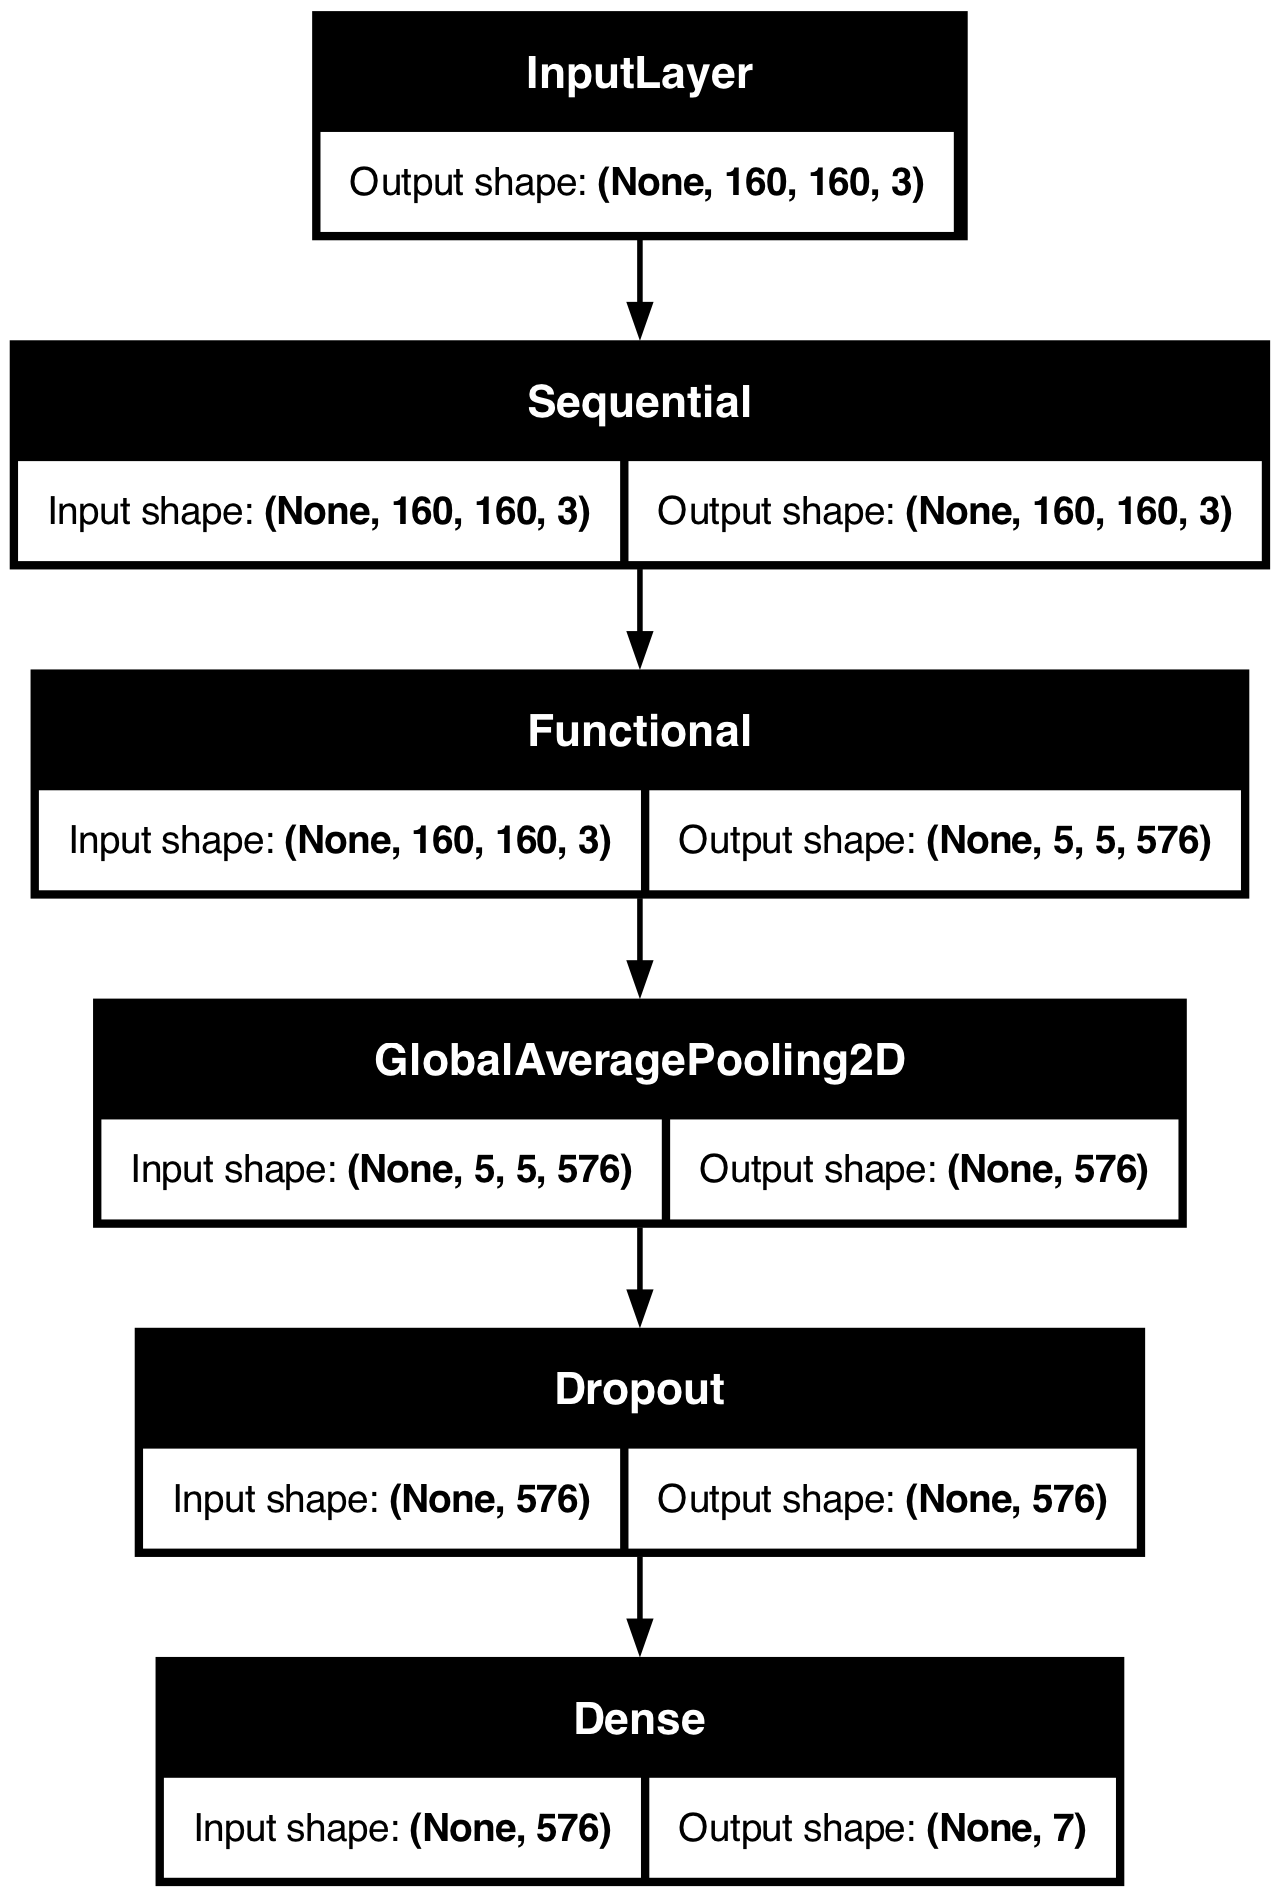
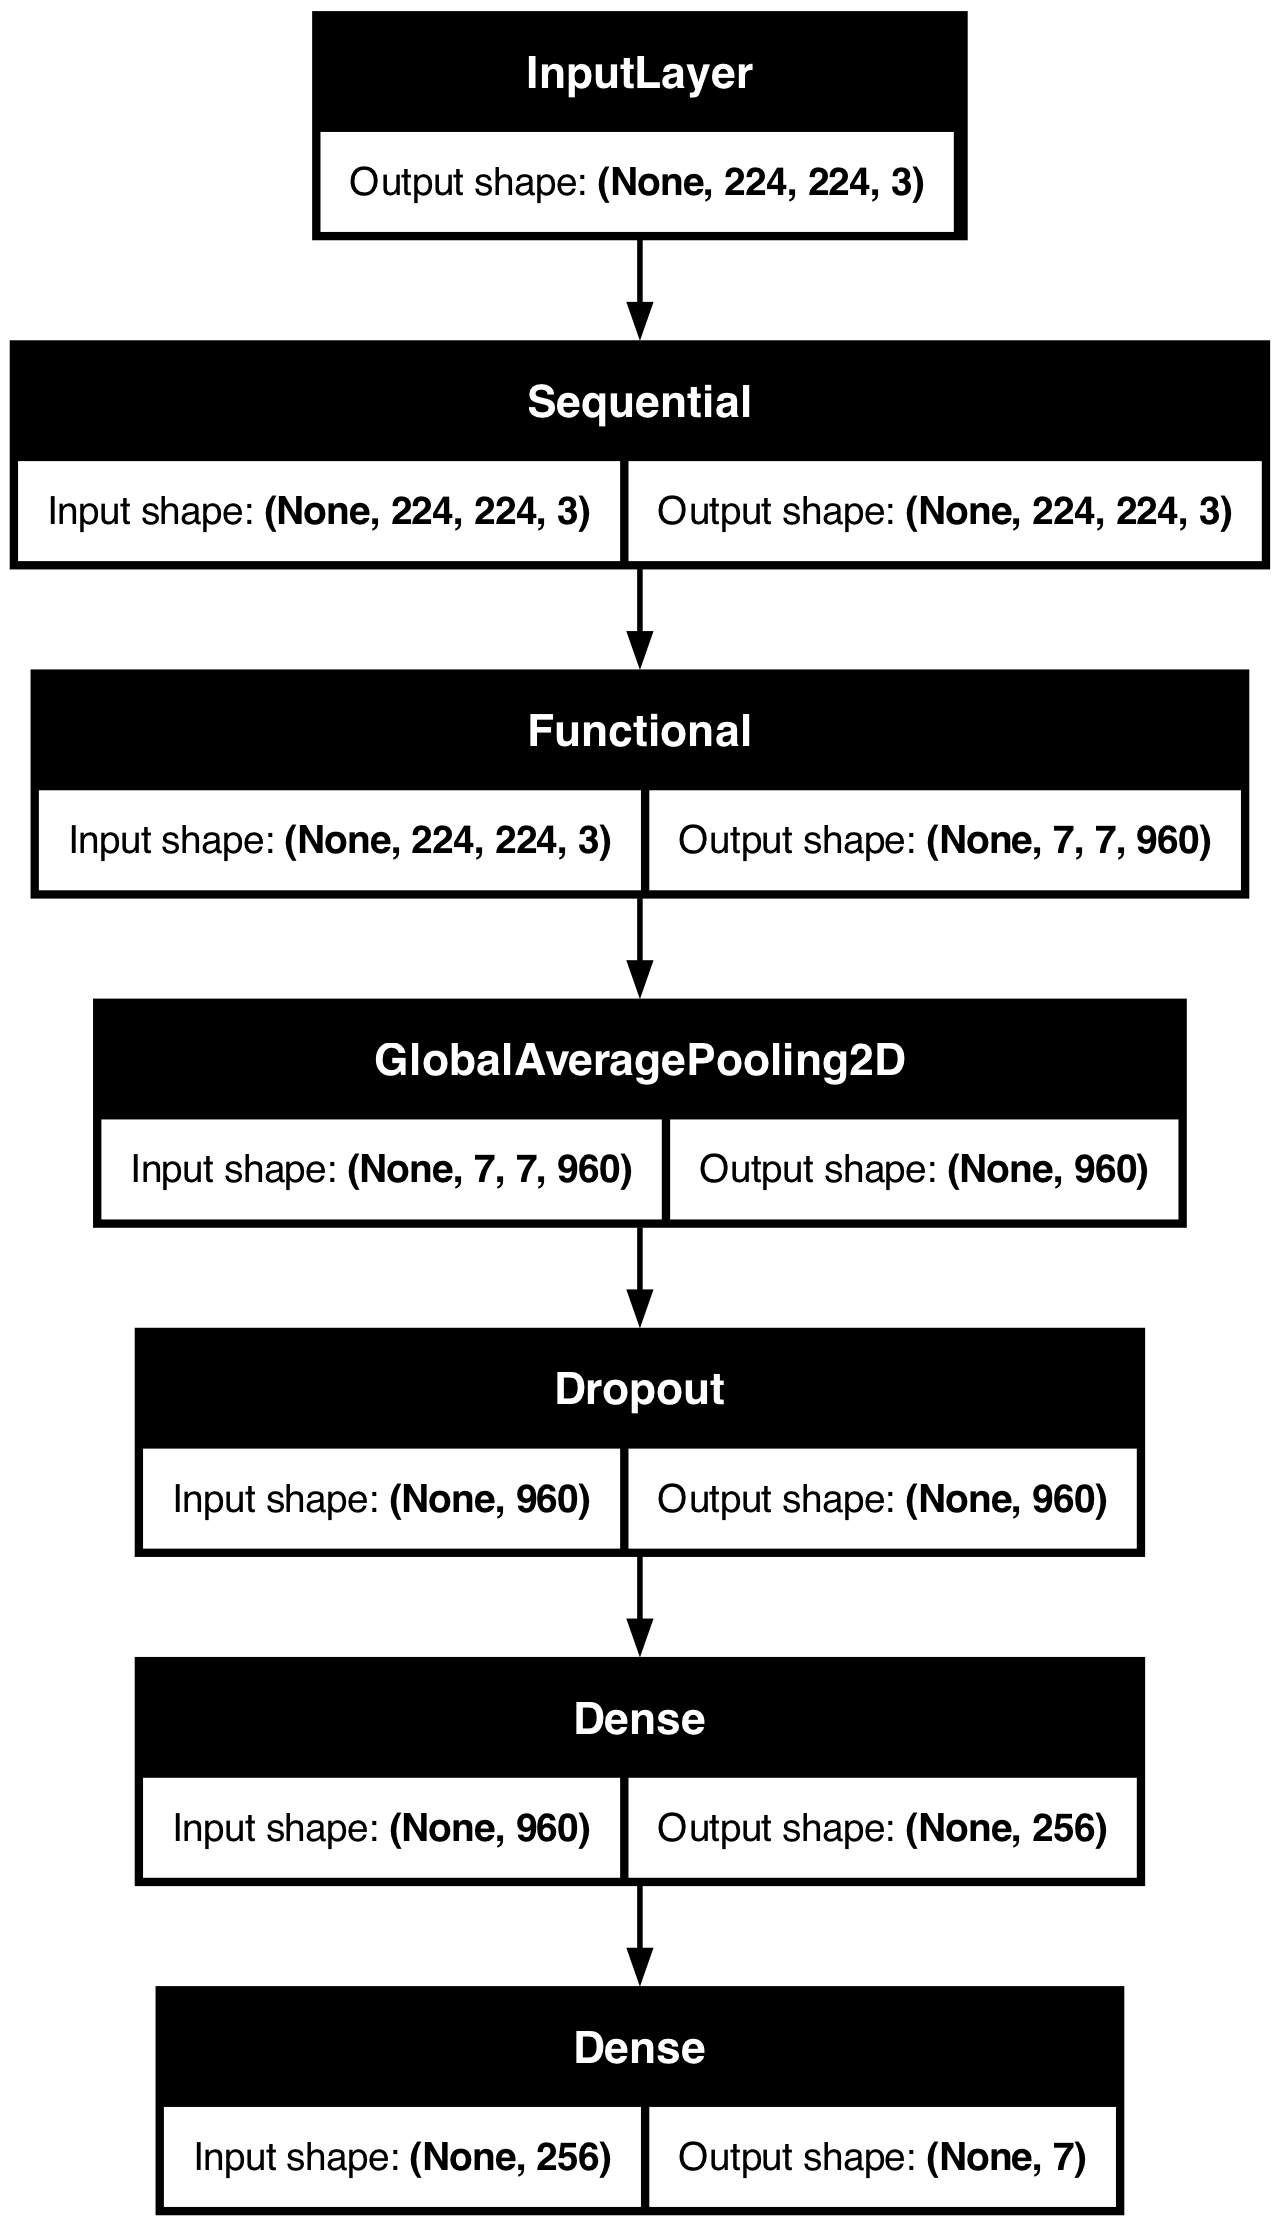
updated backend -> MobileNetV3Large, class imbalance handling, augmentation additions, stronger head + weight decay (extra dense layer, (none, 256)), unfreezed at around 70%

diff --git a/backend/tfmodel.py b/backend/tfmodel.py
@@ -2,7 +2,7 @@
 
 import os
 import tensorflow as tf 
-import numpy as np 
+import numpy, pathlib, collections as np 
 import matplotlib.pyplot as plt 
 import kagglehub
 from tensorflow.keras.applications.mobilenet_v3 import preprocess_input
@@ -27,7 +27,7 @@ data_dir = PATH
 #validation_dir = os.path.join(PATH, 'validation')
 
 BATCH_SIZE = 32
-IMG_SIZE = (160, 160) # px, px
+IMG_SIZE = (224, 224) # px, px
 
 train_dataset = tf.keras.utils.image_dataset_from_directory(
     data_dir,
@@ -71,8 +71,8 @@ print("Num val batches: %d" % tf.data.experimental.cardinality(validation_datase
 
 # autotune dataset, image loading performance benefit
 AUTOTUNE = tf.data.AUTOTUNE
-train_dataset = train_dataset.prefetch(buffer_size=AUTOTUNE)
-validation_dataset = validation_dataset.prefetch(buffer_size=AUTOTUNE)
+train_dataset = train_dataset.shuffle(1000).cache().prefetch(tf.data.AUTOTUNE)
+validation_dataset = validation_dataset.cache().prefetch(tf.data.AUTOTUNE)
 #test_dataset = test_dataset.prefetch(buffer_size=AUTOTUNE)
 
 
@@ -81,6 +81,10 @@ validation_dataset = validation_dataset.prefetch(buffer_size=AUTOTUNE)
 data_augmentation = tf.keras.Sequential([
     tf.keras.layers.RandomFlip('horizontal'),  
     tf.keras.layers.RandomRotation(0.2),
+    tf.keras.layers.RandomZoom(0.2),
+    tf.keras.layers.RandomTranslation(0.1, 0.1),
+    tf.keras.layers.RandomContrast(0.1), 
+    tf.keras.layers.RandomBrightness(0.1),
 ])
 
 # model rescaling (kinda like normalization in ML - [-1, 1] inputs)
@@ -90,14 +94,22 @@ rescale = tf.keras.layers.Rescaling(1./127.5, offset=-1)
 # for now, pretrained convnets
 # later, fine-tuned convnets - diff layers - real dataset
 IMG_SHAPE = IMG_SIZE + (3,)
-base_model = tf.keras.applications.MobileNetV3Small(input_shape=IMG_SHAPE, include_top=False, weights='imagenet')
+base_model = tf.keras.applications.MobileNetV3Large(input_shape=IMG_SHAPE, include_top=False, weights='imagenet')
+base_model.trainable = False
 
 image_batch, label_batch = next(iter(validation_dataset))
 feature_batch = base_model(image_batch)
 print(feature_batch.shape) # feature shape MobileNetV3 -> (32, 5, 5, 576)
 
-base_model.trainable = False
 base_model.summary()
+
+print ("num layers in base: ", len(base_model.layers))
+
+'''
+fine_tune_layer = 100
+for layer in base_model.layers[:fine_tune_layer]:
+    layer.trainable = False
+'''
 
 global_average_layer = tf.keras.layers.GlobalAveragePooling2D() # 2d average pooling input signal conv neural net
 feature_batch_avg = global_average_layer(feature_batch)
@@ -107,20 +119,22 @@ prediction_layer = tf.keras.layers.Dense(1, activation="sigmoid")
 prediction_batch = prediction_layer(feature_batch_avg)
 print(prediction_batch.shape)
 
+wd = 1e-5
+
 inputs = tf.keras.Input(shape=IMG_SHAPE)
 x = data_augmentation(inputs)
 x = preprocess_input(x)
-x = base_model(x, training=False)
+x = base_model(x)
 x = global_average_layer(x)
 x = tf.keras.layers.Dropout(0.2)(x)
-outputs = tf.keras.layers.Dense(num_classes, activation="softmax")(x)
+x = tf.keras.layers.Dense(256, activation="relu", kernel_regularizer=tf.keras.regularizers.L2(wd))(x)
+outputs = tf.keras.layers.Dense(num_classes, activation="softmax", kernel_regularizer=tf.keras.regularizers.L2(wd))(x)
 model = tf.keras.Model(inputs, outputs)
 
 model.summary()
 
 # print diagram
 tf.keras.utils.plot_model(model, show_shapes=True)
-
 
 # compile, train over epochs
 base_learning_rate = 0.0001 
@@ -134,10 +148,44 @@ loss0, accuracy0 = model.evaluate(validation_dataset)
 print("initial loss: {:.2f}".format(loss0))
 print("initial accuracy: {:.2f}".format(accuracy0))
 
+fine_tune_epochs = 20 + epochs
+
+root = pathlib.Path(data_dir)
+counts = {p.name: len(list(p.glob("*"))) for p in root.iterdir() if p.is_dir()}
+print(counts)
+
+idx = {name:i for i, name in enumerate(class_names)}
+total = sum(counts.values())
+class_weight = {idx[k]: total/(len(counts)*v) for k, v, in counts.items()}
+print(class_weight)
+
 # model training history
 history = model.fit(train_dataset,
                     epochs=epochs,
-                    validation_data=validation_dataset)
+                    validation_data=validation_dataset, class_weight=class_weight)
+
+# fine tune set
+fine_tune_at = int(0.7 * len(base_model.layers))
+base_model.trainable = True
+for layer in base_model.layers[:fine_tune_at]:
+    layer.trainable = False
+
+model.compile(
+    optimizer=tf.keras.optimizers.Adam(learning_rate = base_learning_rate/10),
+    loss=tf.keras.losses.SparseCategoricalCrossentropy(),
+    metrics=['accuracy']
+)
+
+cb = [
+    tf.keras.callbacks.ReduceLROnPlateau(monitor='val_loss', factor=0.5, patience=3),
+    tf.keras.callbacks.EarlyStopping(monitor='val_loss', patience=6, restore_best_weights=True)
+]
+
+history_fine = model.fit(train_dataset,
+                         epochs=fine_tune_epochs,
+                         validation_data=validation_dataset,
+                         initial_epoch=len(history.epoch),
+                         callbacks=cb, class_weight=class_weight)
 
 # testing with test dataset - in our case, we need to change this code for image verification over new image fed in.
 loss, accuracy = model.evaluate(validation_dataset)

diff --git a/backend/tfGPUCheck.py b/backend/tfGPUCheck.py
@@ -1,0 +1,6 @@
+import tensorflow as tf
+# to check M4 chip utilization.
+print("TF:", tf.__version__)
+print("Built with GPU:", tf.test.is_built_with_gpu_support())
+print("Physical devices:", tf.config.list_physical_devices())
+print("Logical devices:", tf.config.list_logical_devices())
